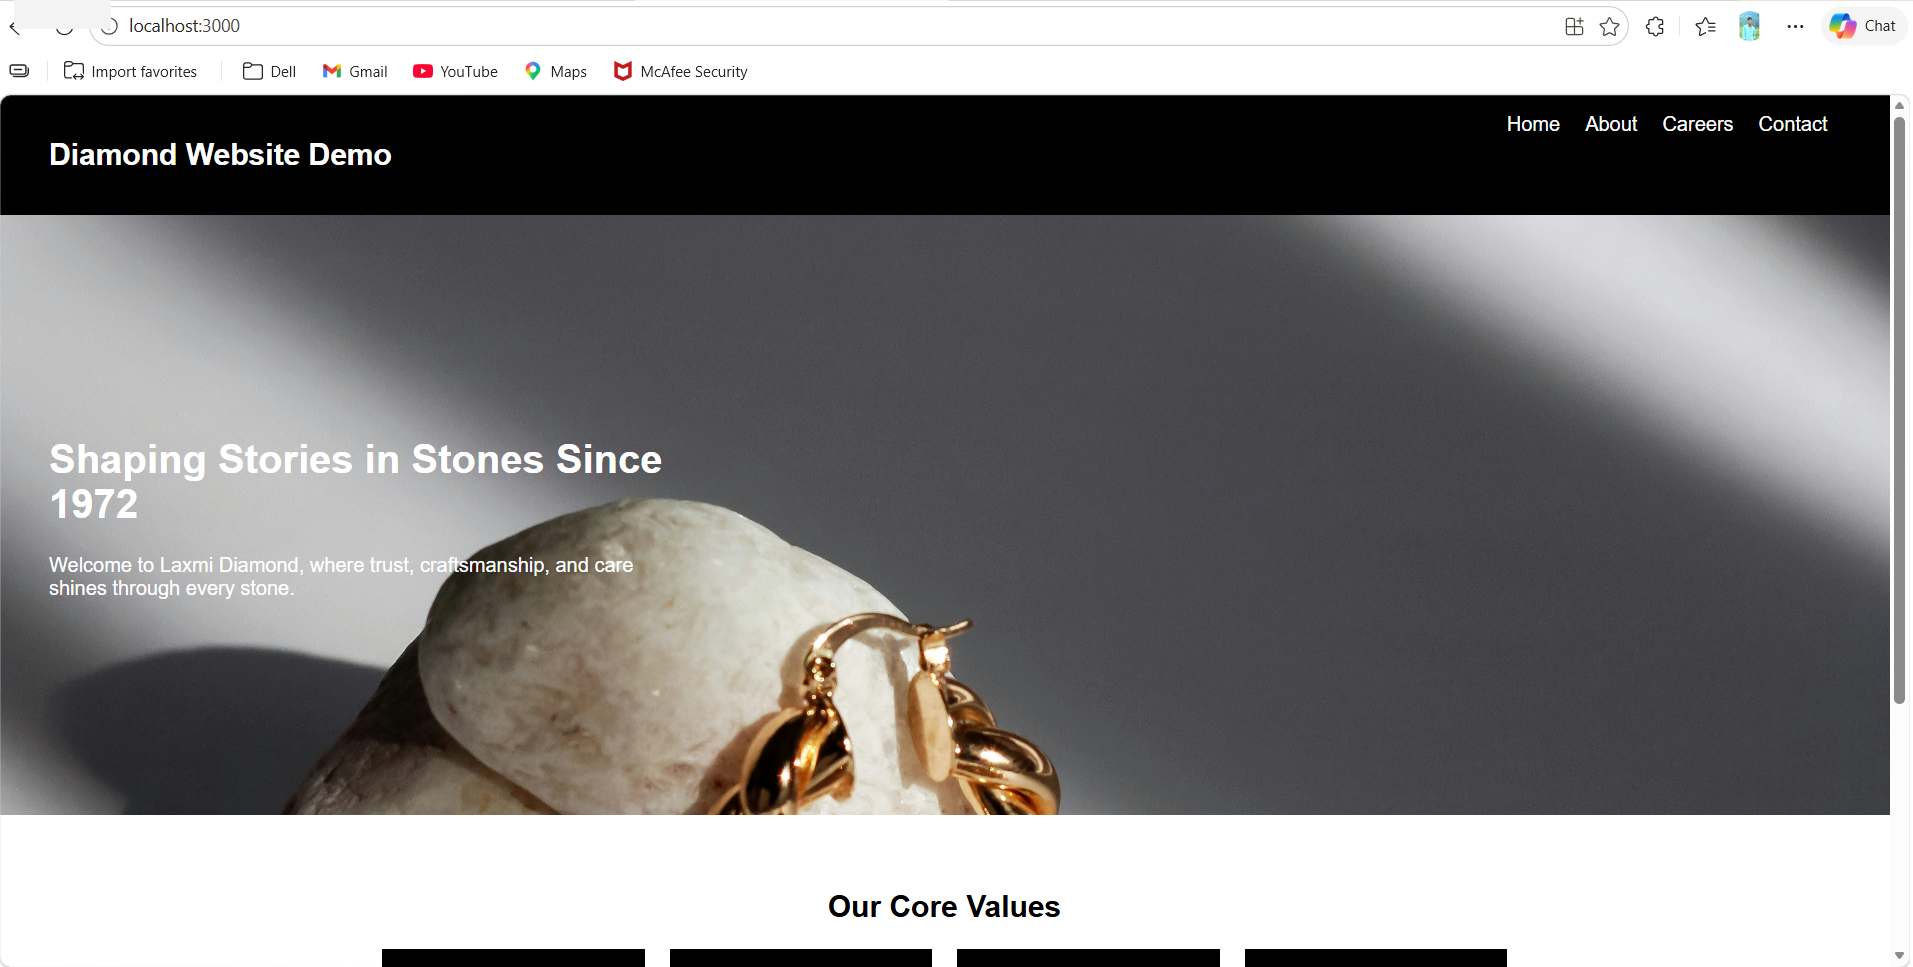
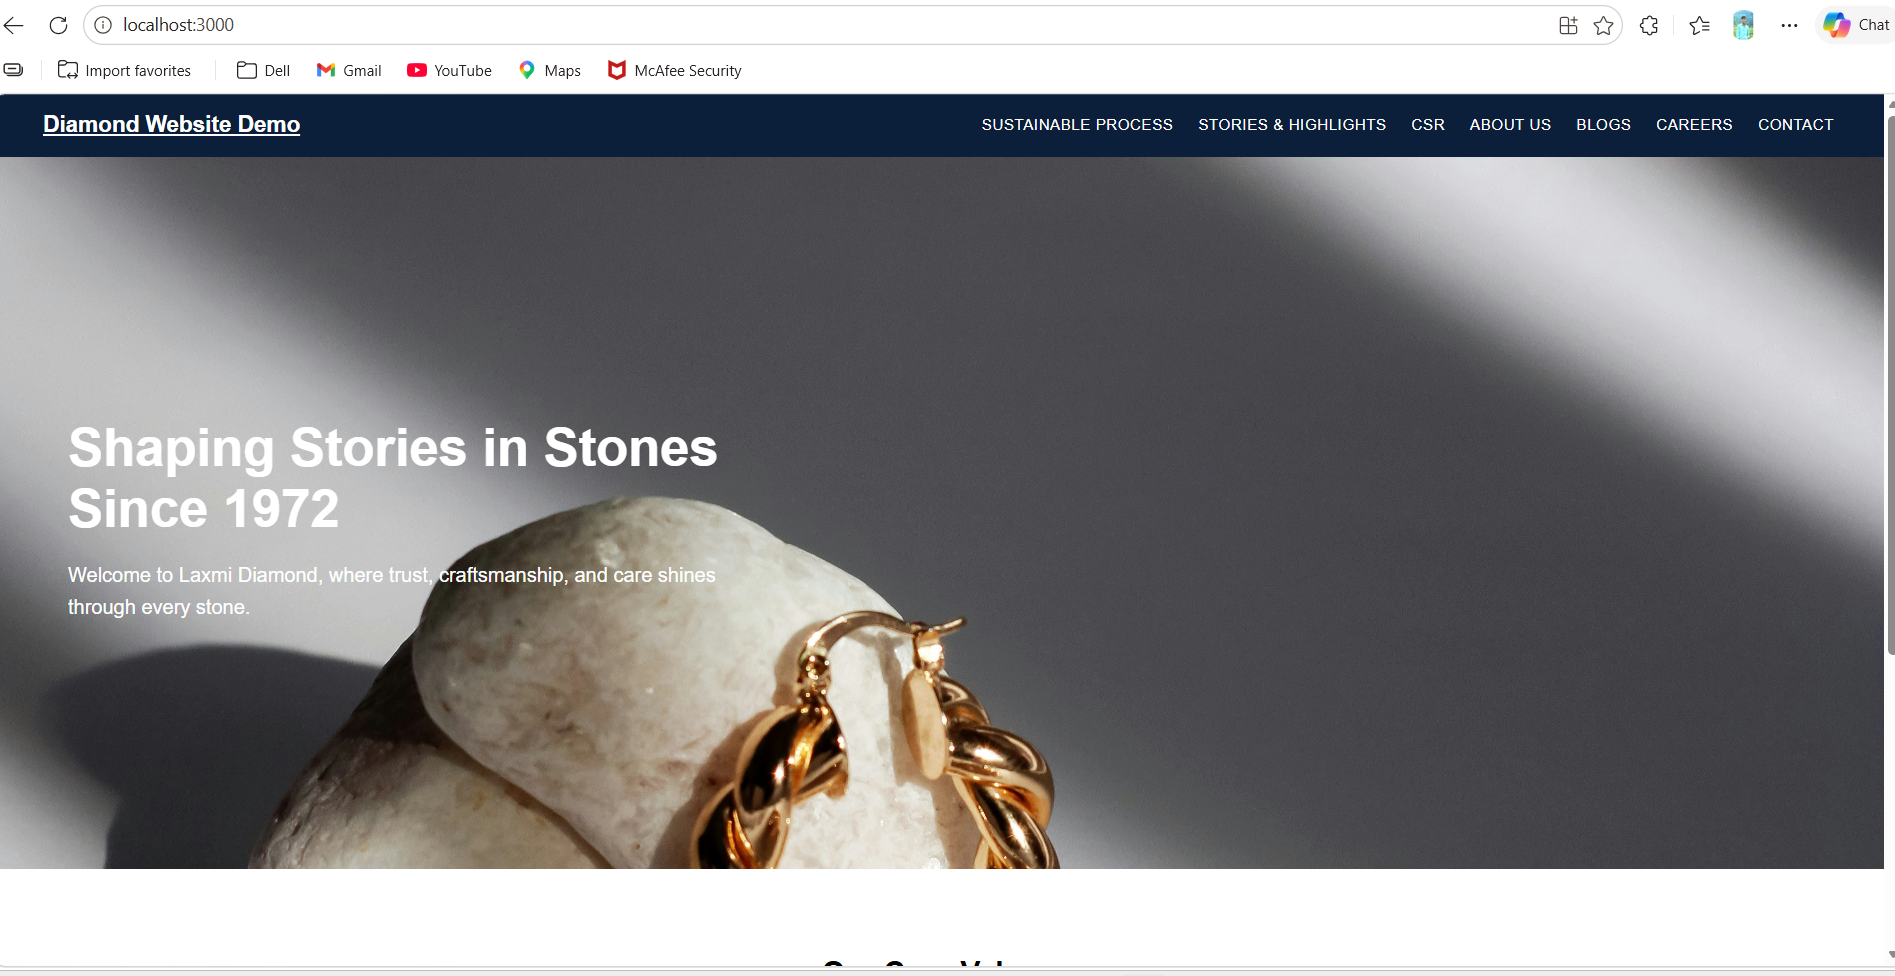
Added careers page screenshot

diff --git a/src/App.css b/src/App.css
@@ -1,76 +1,112 @@
+/* Global */
 body {
   margin: 0;
-  font-family: Arial;
+  font-family: Arial, sans-serif;
 }
 
 /* Navbar */
 .navbar {
   display: flex;
   justify-content: space-between;
+  align-items: center;
   padding: 15px 40px;
-  background: black;
+  background: #0b1f3a; /* dark blue like screenshot */
   color: white;
 }
 
+.logo {
+  font-size: 18px;
+  font-weight: bold;
+  color: white;
+}
+
+/* Nav Links */
+.nav-links {
+  display: flex;
+  align-items: center;
+  gap: 20px;
+}
+
 .nav-links a {
-  margin: 0 10px;
   color: white;
   text-decoration: none;
+  font-size: 12px;
+  letter-spacing: 0.5px;
+  transition: 0.3s;
+}
+
+.nav-links a:hover {
+  color: #cbd5e1;
 }
 
 /* Hero */
 .hero {
-  height: 400px;
+  height: 450px;
   background: url("https://images.unsplash.com/photo-1617038220319-276d3cfab638")
     center/cover no-repeat;
   display: flex;
   align-items: center;
-  padding: 40px;
+  padding: 60px;
   color: white;
 }
 
 .hero-text {
-  max-width: 500px;
+  max-width: 550px;
+}
+
+.hero-text h1 {
+  font-size: 42px;
+  margin-bottom: 10px;
+}
+
+.hero-text p {
+  font-size: 16px;
+  line-height: 1.6;
 }
 
 /* Values */
 .values {
-  padding: 40px;
+  padding: 50px;
   text-align: center;
 }
 
 .value-boxes {
   display: flex;
   justify-content: center;
-  gap: 20px;
+  gap: 25px;
   margin-top: 20px;
 }
 
 .box {
-  background: black;
+  background: #0b1f3a;
   color: white;
   padding: 30px;
-  width: 150px;
+  width: 160px;
+  border-radius: 8px;
 }
 
 /* Impact */
 .impact {
   display: flex;
-  padding: 40px;
+  align-items: center;
+  padding: 50px;
   background: #2d4a8a;
   color: white;
 }
 
 .impact-left img {
-  width: 300px;
+  width: 320px;
+  border-radius: 10px;
 }
 
 .impact-right {
-  margin-left: 30px;
+  margin-left: 40px;
 }
 
-.nav-links a {
-  margin: 0 10px;
-  color: white;
-  text-decoration: none;
+.impact-right h2 {
+  margin-bottom: 10px;
+}
+
+.impact-right p {
+  line-height: 1.6;
 }

diff --git a/src/components/Navbar.jsx b/src/components/Navbar.jsx
@@ -1,17 +1,24 @@
 import React from "react";
 import { Link } from "react-router-dom";
+import "../App.css";   
+
 
 function Navbar() {
   return (
     <div className="navbar">
-      <h2 className="logo">Diamond Website Demo</h2>
-
-      <div className="nav-links">
-        <Link to="/">Home</Link>
-        <Link to="/about">About</Link>
-        <Link to="/careers">Careers</Link>
-        <Link to="/contact">Contact</Link>
-      </div>
+       <Link to="/" className="logo">
+        Diamond Website Demo
+      </Link>
+      
+ <div className="nav-links">
+        <Link to="/sustainable">SUSTAINABLE PROCESS</Link>
+        <Link to="/stories">STORIES & HIGHLIGHTS</Link>
+        <Link to="/csr">CSR</Link>
+        <Link to="/about">ABOUT US</Link>
+        <Link to="/blogs">BLOGS</Link>
+        <Link to="/careers">CAREERS</Link>
+        <Link to="/contact">CONTACT</Link>
+       </div>
     </div>
   );
 }

diff --git a/src/pages/Blogs.jsx b/src/pages/Blogs.jsx
@@ -1,0 +1,13 @@
+ 
+import React from "react";
+
+function Blogs() {
+  return (
+    <div style={{ padding: "40px" }}>
+      <h1>Blogs</h1>
+      <p>Read our latest articles, updates, and insights about diamonds and industry trends.</p>
+    </div>
+  );
+}
+
+export default Blogs;

diff --git a/src/pages/CSR.jsx b/src/pages/CSR.jsx
@@ -1,0 +1,13 @@
+ 
+import React from "react";
+
+function CSR() {
+  return (
+    <div style={{ padding: "40px" }}>
+      <h1>CSR</h1>
+      <p>This page shows our corporate social responsibility activities.</p>
+    </div>
+  );
+}
+
+export default CSR;

diff --git a/src/pages/Stories.jsx b/src/pages/Stories.jsx
@@ -1,0 +1,13 @@
+// src/pages/Stories.jsx
+import React from "react";
+
+function Stories() {
+  return (
+    <div style={{ padding: "40px" }}>
+      <h1>Stories & Highlights</h1>
+      <p>Here you can explore our journey and success stories.</p>
+    </div>
+  );
+}
+
+export default Stories;

diff --git a/src/pages/Sustainable.jsx b/src/pages/Sustainable.jsx
@@ -1,0 +1,12 @@
+import React from "react";
+
+function Sustainable() {
+  return (
+    <div style={{ padding: "40px" }}>
+      <h1>Sustainable Process</h1>
+      <p>This page explains our sustainable and ethical practices.</p>
+    </div>
+  );
+}
+
+export default Sustainable;

diff --git a/src/App.js b/src/App.js
@@ -6,6 +6,12 @@ import Impact from "./components/Impact";
 import About from "./pages/About";
 import Careers from "./pages/Careers";
 import Contact from "./pages/Contact";
+import Sustainable from "./pages/Sustainable";
+import Stories from "./pages/Stories";
+import CSR from "./pages/CSR";
+import Blogs from "./pages/Blogs";
+
+
 import "./App.css";
 
 import { BrowserRouter as Router, Routes, Route } from "react-router-dom";
@@ -30,6 +36,11 @@ function App() {
         <Route path="/about" element={<About />} />
         <Route path="/careers" element={<Careers />} />
         <Route path="/contact" element={<Contact />} />
+        
+        <Route path="/sustainable" element={<Sustainable />} />
+        <Route path="/stories" element={<Stories />} />
+        <Route path="/csr" element={<CSR />} />
+        <Route path="/blogs" element={<Blogs />} />
       </Routes>
 
     </Router>